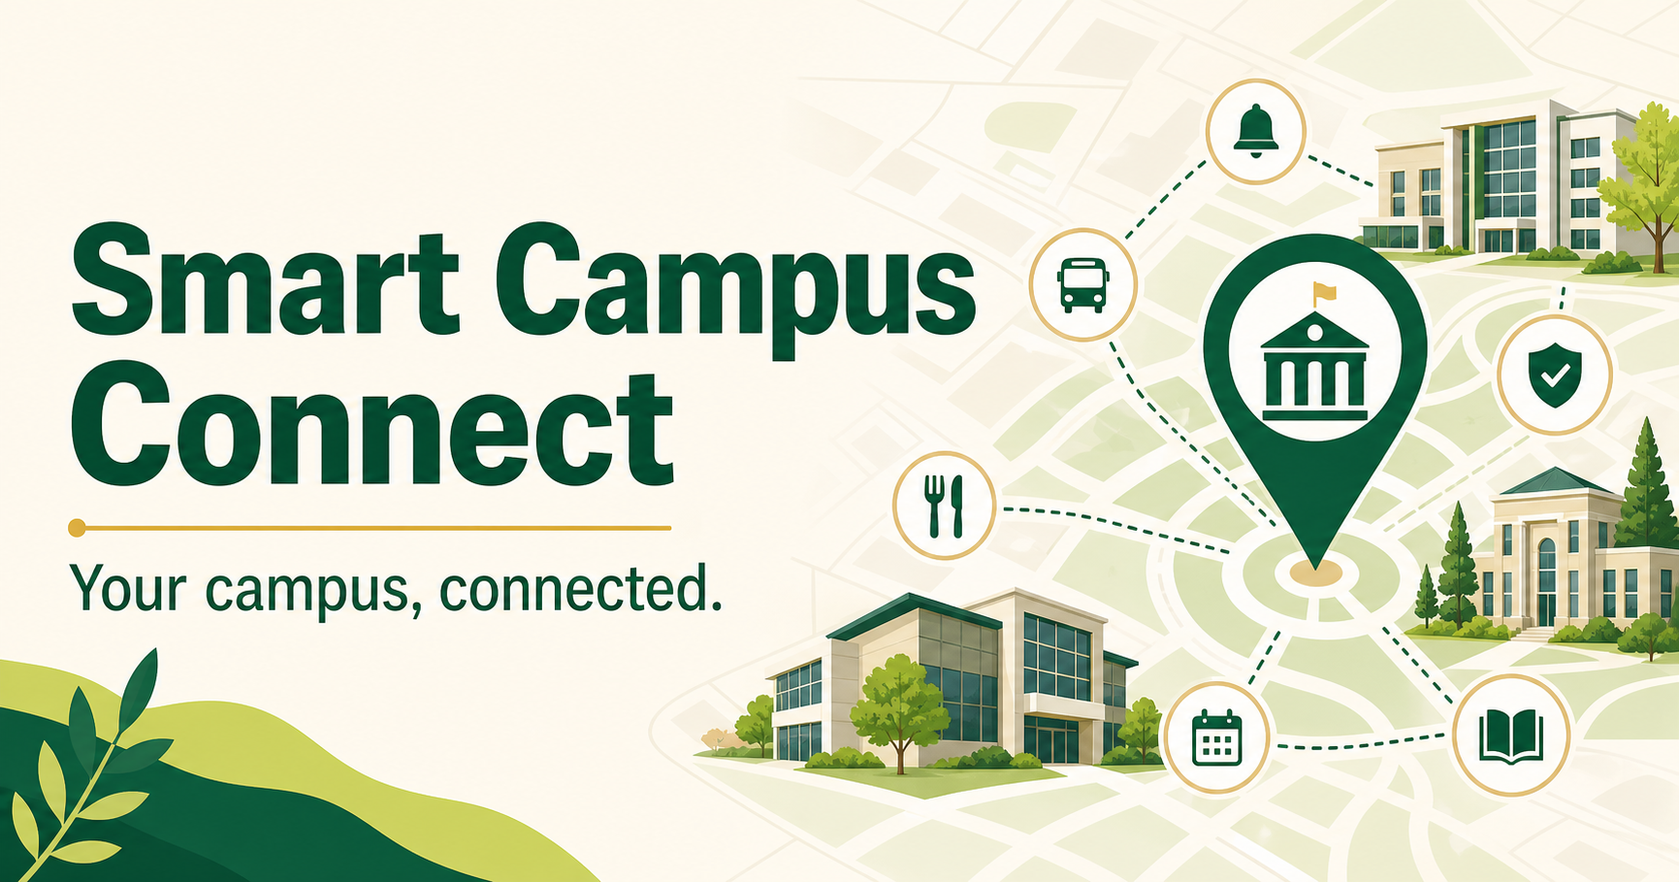
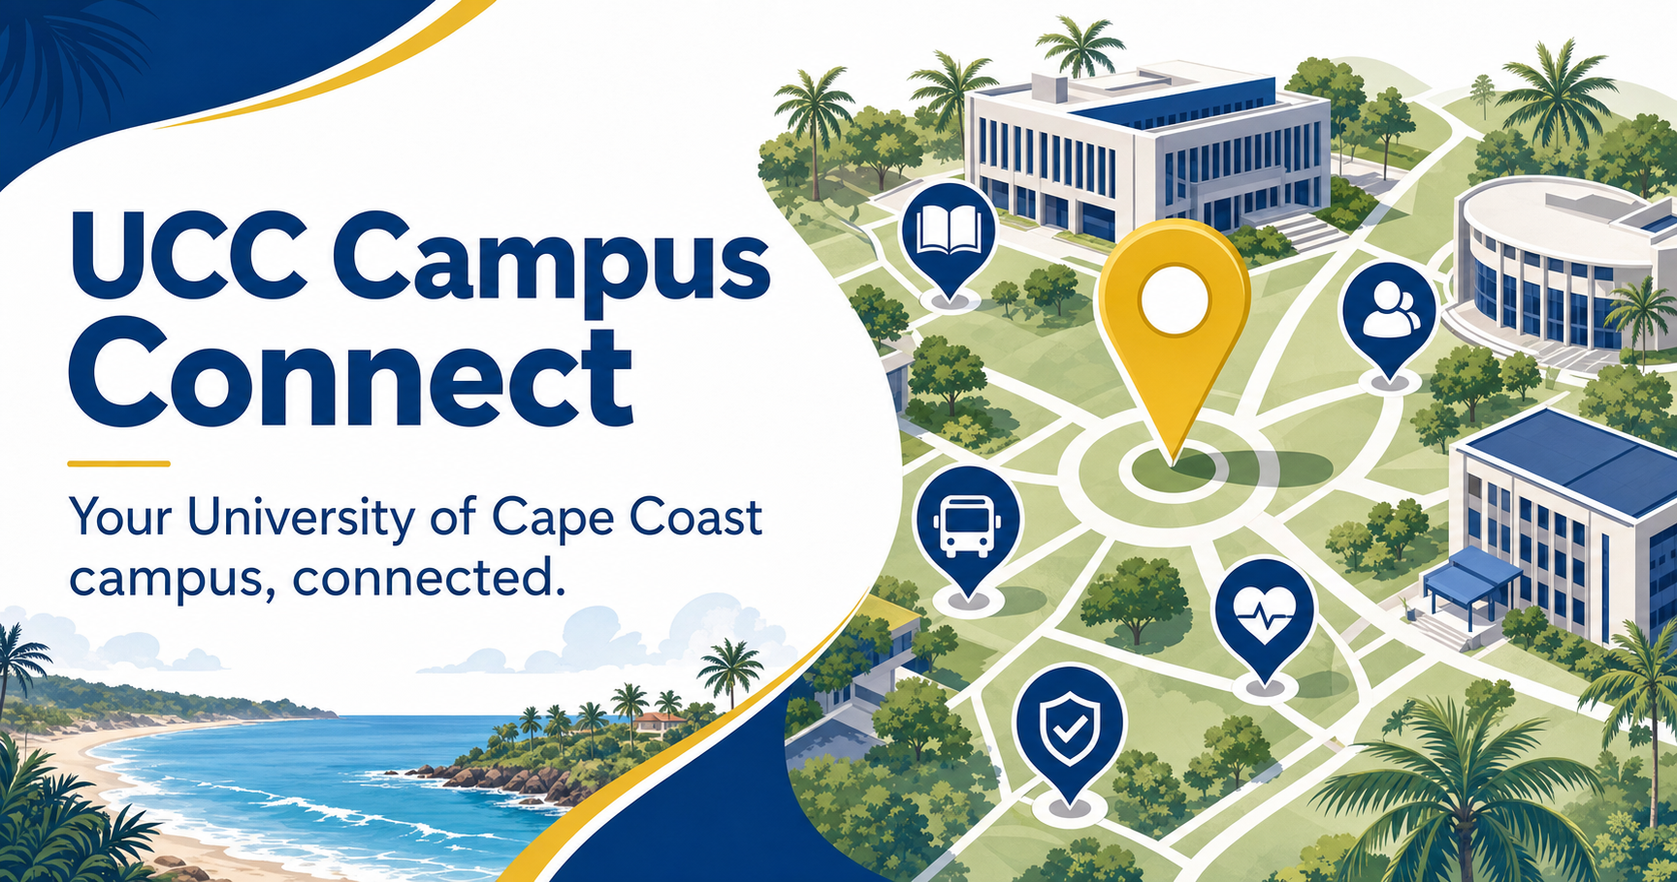
Customize

diff --git a/app/page.tsx b/app/page.tsx
@@ -16,17 +16,19 @@ type Place = {
 };
 
 const places: Place[] = [
-  { id: 1, name: "J. B. Danquah Library", category: "Academic", distance: "4 min", hours: "Open until 10 PM", icon: "▤", color: "#175c45", x: 45, y: 35, accessible: true },
-  { id: 2, name: "University Health Centre", category: "Health", distance: "7 min", hours: "Open 24 hours", icon: "+", color: "#d7533f", x: 71, y: 55, accessible: true },
-  { id: 3, name: "Science Faculty Café", category: "Food & dining", distance: "5 min", hours: "Open until 8 PM", icon: "◒", color: "#e8993a", x: 57, y: 74 },
-  { id: 4, name: "Administration Block", category: "Administration", distance: "9 min", hours: "Open until 5 PM", icon: "▥", color: "#315fa8", x: 29, y: 62, accessible: true },
-  { id: 5, name: "Campus Security Post", category: "Security", distance: "3 min", hours: "Open 24 hours", icon: "◇", color: "#7556a5", x: 76, y: 27 },
-  { id: 6, name: "Central ATM Hub", category: "Banking", distance: "6 min", hours: "Open 24 hours", icon: "$", color: "#15958a", x: 34, y: 78 },
+  { id: 1, name: "Sam Jonah Library", category: "Academic", distance: "4 min", hours: "Open until 10 PM", icon: "▤", color: "#003b73", x: 45, y: 35, accessible: true },
+  { id: 2, name: "UCC University Hospital", category: "Health", distance: "8 min", hours: "Emergency care available", icon: "+", color: "#c43d38", x: 71, y: 55, accessible: true },
+  { id: 3, name: "Casford Cafeteria", category: "Food & dining", distance: "5 min", hours: "Northern Campus", icon: "◒", color: "#d79b13", x: 57, y: 74 },
+  { id: 4, name: "Central Administration", category: "Administration", distance: "9 min", hours: "South Campus", icon: "▥", color: "#315fa8", x: 29, y: 62, accessible: true },
+  { id: 5, name: "UCC Security Control", category: "Security", distance: "3 min", hours: "Open 24 hours", icon: "◇", color: "#62499a", x: 76, y: 27 },
+  { id: 6, name: "ADB Bank & ATM", category: "Banking", distance: "6 min", hours: "Near Cafeteria Complex", icon: "₵", color: "#158b83", x: 34, y: 78 },
+  { id: 7, name: "Kwame Nkrumah Hall", category: "Accommodation", distance: "7 min", hours: "Northern Campus", icon: "▦", color: "#8b6237", x: 20, y: 42 },
+  { id: 8, name: "Science Building Complex", category: "Academic", distance: "6 min", hours: "Network & Infrastructure", icon: "⌬", color: "#2f6ca5", x: 65, y: 15, accessible: true },
 ];
 
 const categories = [
-  ["All places", "⌘"], ["Academic", "▤"], ["Food & dining", "◒"], ["Health", "+"],
-  ["Banking", "$"], ["Security", "◇"],
+  ["All places", "⌘"], ["Academic", "▤"], ["Accommodation", "▦"], ["Food & dining", "◒"],
+  ["Health", "+"], ["Banking", "₵"], ["Security", "◇"],
 ];
 
 const quickActions = [
@@ -45,7 +47,7 @@ export default function Home() {
   const [panel, setPanel] = useState<string | null>(null);
   const [notice, setNotice] = useState("");
   const [chat, setChat] = useState([
-    { from: "ai", text: "Hi Ama! I answer using verified campus information. Where would you like to go?" },
+    { from: "ai", text: "Hi Adwoa! I answer using verified University of Cape Coast information. Where would you like to go?" },
   ]);
   const [message, setMessage] = useState("");
 
@@ -68,9 +70,10 @@ export default function Home() {
     window.setTimeout(() => {
       const lower = q.toLowerCase();
       let answer = "I found a few relevant campus places. Try the directory or tell me the facility name.";
-      if (lower.includes("library")) answer = "J. B. Danquah Library is a 4-minute walk away and is open until 10 PM today.";
-      if (lower.includes("clinic") || lower.includes("health")) answer = "The University Health Centre is open 24 hours. Campus emergency line: 0302 555 011.";
-      if (lower.includes("atm")) answer = "The closest is Central ATM Hub, about a 6-minute walk from your location.";
+      if (lower.includes("library")) answer = "Sam Jonah Library is on Northern Campus, opposite the shuttle bus station. Semester hours are Monday–Friday, 9 AM–10 PM.";
+      if (lower.includes("clinic") || lower.includes("health") || lower.includes("hospital")) answer = "UCC University Hospital serves students, staff and the public. Health Services: 03321 32447.";
+      if (lower.includes("atm") || lower.includes("bank")) answer = "ADB Bank & ATM is near the Cafeteria Complex. UCC also has GCB, Prudential and Zenith banking services on campus.";
+      if (lower.includes("emergency") || lower.includes("security")) answer = "UCC emergency lines include 020 300 5175 and 020 300 5176. Call Ghana’s national emergency number 112 for immediate danger.";
       setChat((current) => [...current, { from: "ai", text: answer }]);
     }, 450);
   }
@@ -87,8 +90,8 @@ export default function Home() {
       {notice && <div className="toast" role="status">✓ {notice}</div>}
       <header className="topbar">
         <a className="brand" href="#top" onClick={() => setActive("Home")}>
-          <span className="brand-mark"><i /><i /><i /></span>
-          <span>Smart Campus<small>CONNECT</small></span>
+          <span className="brand-mark">UCC</span>
+          <span>UCC Campus<small>CONNECT</small></span>
         </a>
         <nav aria-label="Main navigation">
           {["Home", "Map", "Directory", "Updates"].map((item) => (
@@ -100,7 +103,7 @@ export default function Home() {
         </nav>
         <div className="header-actions">
           <button className="icon-button" aria-label="Notifications" onClick={() => toast("You’re all caught up")}>♢<b>3</b></button>
-          <button className="profile" onClick={() => setPanel("profile")}><span>AO</span><em>Ama Osei<small>Student</small></em><i>⌄</i></button>
+          <button className="profile" onClick={() => setPanel("profile")}><span>AM</span><em>Adwoa Mensah<small>UCC Student</small></em><i>⌄</i></button>
         </div>
       </header>
 
@@ -108,21 +111,21 @@ export default function Home() {
         <section className="hero">
           <div className="hero-copy">
             <span className="eyebrow"><i /> WEDNESDAY, JULY 29</span>
-            <h1>Good morning, Ama.</h1>
-            <p>Where do you need to be today?</p>
+            <h1>Good morning, Adwoa.</h1>
+            <p>Where on UCC campus do you need to be?</p>
             <div className="global-search">
               <span>⌕</span>
-              <input value={query} onChange={(e) => setQuery(e.target.value)} onFocus={() => document.getElementById("explore")?.scrollIntoView({ behavior: "smooth" })} placeholder="Search buildings, services, or departments…" aria-label="Search campus" />
+              <input value={query} onChange={(e) => setQuery(e.target.value)} onFocus={() => document.getElementById("explore")?.scrollIntoView({ behavior: "smooth" })} placeholder="Search UCC halls, faculties, services…" aria-label="Search UCC campus" />
               <kbd>⌘ K</kbd>
               <button onClick={() => document.getElementById("explore")?.scrollIntoView({ behavior: "smooth" })}>Search</button>
             </div>
-            <div className="popular"><span>Popular:</span> <button onClick={() => setQuery("Library")}>Library</button><button onClick={() => setQuery("ATM")}>ATM</button><button onClick={() => setQuery("Health")}>Health Centre</button></div>
+            <div className="popular"><span>Popular:</span> <button onClick={() => setQuery("Sam Jonah")}>Sam Jonah Library</button><button onClick={() => setQuery("Hall")}>Halls</button><button onClick={() => setQuery("Hospital")}>UCC Hospital</button></div>
           </div>
           <div className="today-card">
             <div className="today-head"><span>Today on campus</span><button onClick={() => document.getElementById("updates")?.scrollIntoView({ behavior: "smooth" })}>View calendar →</button></div>
-            <div className="event-row"><time><b>10:00</b><small>AM</small></time><i className="blue" /><div><strong>Orientation: New Students</strong><span>Great Hall · 1 hr</span></div></div>
-            <div className="event-row"><time><b>2:30</b><small>PM</small></time><i className="gold" /><div><strong>Entrepreneurship Talk</strong><span>Business School · 90 min</span></div></div>
-            <div className="weather"><span>☀</span><div><b>28°</b><small>Mostly sunny</small></div><em>Good day for a walk</em></div>
+            <div className="event-row"><time><b>10:00</b><small>AM</small></time><i className="blue" /><div><strong>Research Methods Seminar</strong><span>Sam Jonah Library · 1 hr</span></div></div>
+            <div className="event-row"><time><b>2:30</b><small>PM</small></time><i className="gold" /><div><strong>SRC Student Forum</strong><span>UCC Auditorium · 90 min</span></div></div>
+            <div className="weather"><span>☀</span><div><b>28°</b><small>Cape Coast</small></div><em>Sea breeze this afternoon</em></div>
           </div>
         </section>
 
@@ -139,7 +142,7 @@ export default function Home() {
 
         <section className="explore" id="explore">
           <div className="explore-head">
-            <div><span>EXPLORE CAMPUS</span><h2>Find your way around</h2></div>
+            <div><span>EXPLORE UCC</span><h2>Find your way around campus</h2></div>
             <button className="location-button" onClick={() => navigator.geolocation ? navigator.geolocation.getCurrentPosition(() => toast("Location updated"), () => toast("Location access was not available")) : toast("Geolocation is not supported")}>◎ Use my location</button>
           </div>
           <div className="category-row">
@@ -148,7 +151,7 @@ export default function Home() {
           <div className="map-directory">
             <div className="map">
               <div className="road r1" /><div className="road r2" /><div className="road r3" />
-              <span className="map-label l1">NORTH ROAD</span><span className="map-label l2">UNIVERSITY AVE</span><span className="map-label l3">SCIENCE WALK</span>
+              <span className="map-label l1">NORTHERN CAMPUS</span><span className="map-label l2">SCIENCE ROAD</span><span className="map-label l3">SHUTTLE ROUTE</span>
               <div className="field f1" /><div className="field f2" />
               {filtered.map((place) => <button aria-label={place.name} key={place.id} className={`marker ${selected?.id === place.id ? "current" : ""}`} style={{ left: `${place.x}%`, top: `${place.y}%`, background: place.color }} onClick={() => setSelected(place)}>{place.icon}</button>)}
               <div className="you-are-here"><i /> You are here</div>
@@ -173,21 +176,21 @@ export default function Home() {
         <section className="updates-section" id="updates">
           <div className="updates-main">
             <div className="section-title compact"><div><span>STAY INFORMED</span><h2>Latest updates</h2></div><button onClick={() => toast("Showing all announcements")}>View all →</button></div>
-            <article className="featured-update"><div className="date-tile"><b>31</b><span>JUL</span></div><div><span className="tag red">IMPORTANT</span><h3>Course registration closes Friday</h3><p>Complete your semester registration and confirm all selected courses before the portal closes.</p><small>Academic Affairs · 2 hours ago</small></div></article>
+            <article className="featured-update"><div className="date-tile"><b>27</b><span>JUL</span></div><div><span className="tag red">UCC NEWS</span><h3>UCC Counselling Centre produces 25 lay counsellors</h3><p>Twenty-five para-counsellors have graduated from the Young and Wise programme organised by the Counselling Centre.</p><small>University News · July 27, 2026</small></div></article>
             <div className="mini-updates">
-              <article><span className="tag purple">EVENT</span><b>Campus Career Fair 2026</b><small>August 4 · Great Hall</small></article>
-              <article><span className="tag orange">MAINTENANCE</span><b>Library Wi-Fi upgrade</b><small>Tonight · 11 PM–2 AM</small></article>
+              <article><span className="tag purple">SRC</span><b>UCC SRC unveils 2026–2031 strategic plan</b><small>July 23 · University News</small></article>
+              <article><span className="tag orange">CAMPUS</span><b>New student executives inducted</b><small>2026/2027 academic year</small></article>
             </div>
           </div>
           <aside className="safety-card">
             <i>◇</i><div><span>AVAILABLE 24/7</span><h3>Campus safety</h3><p>Security support is always a tap away.</p></div>
-            <a href="tel:0302555011">☎ Call security</a>
+            <a href="tel:0203005175">☎ Call UCC emergency</a>
             <button onClick={() => setPanel("emergency")}>More emergency contacts →</button>
           </aside>
         </section>
       </main>
 
-      <footer><div className="brand light"><span className="brand-mark"><i /><i /><i /></span><span>Smart Campus<small>CONNECT</small></span></div><p>Making campus life simpler, safer, and more connected.</p><span>© 2026 Smart Campus Connect</span></footer>
+      <footer><div className="brand light"><span className="brand-mark">UCC</span><span>UCC Campus<small>CONNECT</small></span></div><p>For the University of Cape Coast community, Ghana.</p><span>© 2026 University of Cape Coast</span></footer>
 
       <button className="floating-ai" onClick={() => setPanel("assistant")} aria-label="Open campus assistant"><span>✦</span><b>Ask Campus AI</b></button>
 
@@ -195,13 +198,13 @@ export default function Home() {
         <section className={`modal ${panel === "assistant" ? "chat-modal" : ""}`} onMouseDown={(e) => e.stopPropagation()} role="dialog" aria-modal="true">
           <button className="modal-close" onClick={() => setPanel(null)}>×</button>
           {panel === "assistant" && <>
-            <div className="modal-icon ai">✦</div><h2>Campus AI</h2><p className="modal-subtitle">Answers grounded in verified campus information</p>
+            <div className="modal-icon ai">✦</div><h2>UCC Campus AI</h2><p className="modal-subtitle">Answers grounded in verified UCC information</p>
             <div className="chat-log">{chat.map((item, index) => <div key={index} className={`bubble ${item.from}`}>{item.text}</div>)}</div>
             <div className="chat-input"><input value={message} onChange={(e) => setMessage(e.target.value)} onKeyDown={(e) => e.key === "Enter" && sendMessage()} placeholder="Ask about places, hours, or services…" autoFocus /><button onClick={sendMessage}>↑</button></div>
           </>}
           {panel === "emergency" && <>
             <div className="modal-icon emergency">+</div><h2>Emergency help</h2><p className="modal-subtitle">If there is immediate danger, call the appropriate service.</p>
-            <div className="contact-list"><a href="tel:0302555011"><span>◇</span><b>Campus security<small>0302 555 011 · 24 hours</small></b><em>Call</em></a><a href="tel:0302555012"><span>+</span><b>University Health Centre<small>0302 555 012 · 24 hours</small></b><em>Call</em></a><a href="tel:112"><span>☎</span><b>National emergency<small>Police, fire and ambulance</small></b><em>112</em></a></div>
+            <div className="contact-list"><a href="tel:0203005175"><span>◇</span><b>UCC emergency line<small>020 300 5175 · Campus response</small></b><em>Call</em></a><a href="tel:0332132447"><span>+</span><b>UCC Health Services<small>03321 32447 · University Hospital</small></b><em>Call</em></a><a href="tel:0205388648"><span>☎</span><b>UCC Fire Service Unit<small>020 538 8648</small></b><em>Call</em></a><a href="tel:112"><span>☎</span><b>National emergency<small>Police, fire and ambulance</small></b><em>112</em></a></div>
             <button className="primary-action" onClick={() => toast("Your location is ready to share")}>◎ Capture my current location</button>
           </>}
           {panel === "report" && <>
@@ -214,7 +217,7 @@ export default function Home() {
             </form>
           </>}
           {panel === "profile" && <>
-            <div className="profile-large">AO</div><h2>Ama Osei</h2><p className="modal-subtitle">Student · Computer Science</p>
+            <div className="profile-large">AM</div><h2>Adwoa Mensah</h2><p className="modal-subtitle">UCC Student · Computer Science & IT</p>
             <div className="stats"><div><b>{saved.length}</b><span>Saved places</span></div><div><b>2</b><span>Open reports</span></div><div><b>8</b><span>Places visited</span></div></div>
             <button className="primary-action" onClick={() => { setPanel(null); toast("Profile settings opened"); }}>Manage my profile</button>
           </>}

diff --git a/app/globals.css b/app/globals.css
@@ -1,6 +1,6 @@
 @import "tailwindcss";
 
-:root { --ink:#18362f; --green:#175c45; --lime:#dce87d; --cream:#f7f5ed; --muted:#698078; --line:#dce4df; }
+:root { --ink:#102f4d; --green:#003b73; --lime:#f2c84b; --cream:#f6f8fb; --muted:#647b8d; --line:#dce5ec; }
 *{box-sizing:border-box} html{scroll-behavior:smooth} body{margin:0;background:#fbfcf9;color:var(--ink);font-family:var(--font-geist-sans),Arial,sans-serif} button,input,select,textarea{font:inherit} button,a{transition:.2s ease} button{color:inherit}
 .app-shell{min-height:100vh;overflow:hidden}.topbar{height:76px;background:#fff;border-bottom:1px solid #e5e9e6;display:flex;align-items:center;padding:0 max(5vw,28px);position:sticky;top:0;z-index:30}.brand{display:flex;align-items:center;gap:11px;text-decoration:none;color:var(--ink);font-size:16px;font-weight:760;letter-spacing:-.4px}.brand>span:last-child{display:flex;flex-direction:column;line-height:1.02}.brand small{font-size:8px;letter-spacing:3.2px;color:#638077;margin-top:4px}.brand-mark{width:35px;height:35px;border-radius:9px;background:var(--green);display:flex!important;align-items:flex-end!important;justify-content:center;gap:3px;padding:8px}.brand-mark i{width:4px;border-radius:4px;background:#f3f5cf}.brand-mark i:nth-child(1){height:10px}.brand-mark i:nth-child(2){height:19px}.brand-mark i:nth-child(3){height:14px}.topbar nav{display:flex;gap:34px;margin:auto}.topbar nav button{border:0;background:none;height:76px;cursor:pointer;color:#61756f;font-size:13px;position:relative}.topbar nav button.active{color:var(--green);font-weight:700}.topbar nav button.active:after{content:"";position:absolute;left:0;right:0;bottom:0;height:2px;background:var(--green)}.header-actions{display:flex;align-items:center;gap:18px}.icon-button{border:0;background:#f4f6f3;border-radius:50%;width:38px;height:38px;cursor:pointer;position:relative}.icon-button b{position:absolute;right:-1px;top:-3px;background:#d9513c;color:#fff;border-radius:50%;font-size:8px;width:15px;height:15px;display:grid;place-items:center}.profile{border:0;background:none;display:flex;align-items:center;gap:9px;cursor:pointer}.profile>span,.profile-large{width:36px;height:36px;background:#e6bf73;color:#453a20;border-radius:50%;display:grid;place-items:center;font-weight:750;font-size:12px}.profile em{font-style:normal;font-size:12px;font-weight:700;text-align:left;display:flex;flex-direction:column}.profile small{font-weight:400;color:#80908b;margin-top:2px}.profile i{font-style:normal;color:#82908c}
 main{max-width:1440px;margin:auto}.hero{min-height:392px;background:var(--cream);padding:66px max(6vw,34px) 56px;display:grid;grid-template-columns:1.35fr .8fr;gap:7vw;align-items:center;position:relative}.hero:before{content:"";position:absolute;width:260px;height:260px;border:1px solid #e8e5d7;border-radius:50%;left:-120px;top:-90px}.eyebrow,.section-title span,.explore-head>div>span{font-size:9px;font-weight:800;letter-spacing:2.2px;color:#698076}.eyebrow i{width:6px;height:6px;border-radius:50%;background:#dd9145;display:inline-block;margin-right:8px}.hero h1{font-family:Georgia,serif;font-weight:500;font-size:49px;letter-spacing:-2px;margin:14px 0 4px}.hero-copy>p{font-family:Georgia,serif;font-size:20px;color:#667972;margin:0 0 27px}.global-search{display:flex;align-items:center;background:#fff;border:1px solid #d9e1dc;border-radius:9px;padding:6px 7px 6px 16px;box-shadow:0 10px 28px #1b473211;max-width:685px}.global-search>span{font-size:23px;color:#6d827a;transform:rotate(-20deg)}.global-search input{height:46px;border:0;outline:0;flex:1;padding:0 12px;font-size:13px;color:#25443c}.global-search kbd{font-size:10px;border:1px solid #d9dfdc;border-radius:4px;padding:4px 6px;color:#8b9995}.global-search button{background:var(--green);border:0;color:#fff;border-radius:6px;height:42px;padding:0 22px;margin-left:9px;font-weight:700;font-size:12px;cursor:pointer}.popular{font-size:11px;color:#82918d;margin-top:13px}.popular span{font-weight:700;color:#5a716a}.popular button{border:0;background:none;color:#72857f;font-size:11px;text-decoration:underline;cursor:pointer;padding:0 5px}.today-card{background:#fff;border-radius:12px;padding:22px 24px;box-shadow:0 15px 38px #2447330d;border:1px solid #eceeea}.today-head{display:flex;justify-content:space-between;align-items:center;margin-bottom:9px}.today-head span{font-weight:750;font-size:13px}.today-head button{border:0;background:none;color:var(--green);font-size:10px;font-weight:700;cursor:pointer}.event-row{display:flex;align-items:center;gap:14px;padding:14px 0;border-bottom:1px solid #edf0ed}.event-row time{width:42px;display:flex;flex-direction:column}.event-row time b{font-size:13px}.event-row time small{font-size:8px;color:#82908c}.event-row>i{width:3px;height:35px;border-radius:3px}.event-row>i.blue{background:#5277ae}.event-row>i.gold{background:#e2a043}.event-row div{display:flex;flex-direction:column}.event-row strong{font-size:11px}.event-row span{font-size:9px;color:#80908b;margin-top:4px}.weather{display:flex;align-items:center;gap:10px;background:#faf8ee;border-radius:8px;padding:12px;margin-top:14px}.weather>span{font-size:24px}.weather div{display:flex;flex-direction:column}.weather b{font-size:16px}.weather small{font-size:8px;color:#778983}.weather em{font-style:normal;font-size:9px;color:#7a8c85;margin-left:auto}
@@ -11,3 +11,12 @@ main{max-width:1440px;margin:auto}.hero{min-height:392px;background:var(--cream)
 @media(max-width:900px){.topbar nav{display:none}.header-actions{margin-left:auto}.hero{grid-template-columns:1fr;padding-top:45px}.today-card{max-width:620px}.quick-grid{grid-template-columns:1fr 1fr}.map-directory{grid-template-columns:1.3fr 1fr}.updates-section{grid-template-columns:1fr}.safety-card{min-height:230px}.hero h1{font-size:42px}}
 @media(max-width:620px){.topbar{padding:0 18px}.profile em,.profile i{display:none}.hero,.quick-section,.explore,.updates-section{padding-left:20px;padding-right:20px}.hero{padding-top:38px}.hero h1{font-size:36px}.global-search kbd,.global-search button{display:none}.quick-grid{grid-template-columns:1fr}.section-title p{display:none}.map-directory{height:auto;grid-template-columns:1fr}.map{height:390px}.place-list{height:410px}.updates-section{padding-top:44px}.mini-updates{grid-template-columns:1fr}footer{flex-direction:column;text-align:center;gap:12px}.floating-ai b{display:none}.floating-ai{padding:8px}.today-card{padding:18px}.form-row{grid-template-columns:1fr}}
 @media(prefers-reduced-motion:reduce){*{scroll-behavior:auto!important;transition:none!important}}
+
+/* University of Cape Coast identity */
+.brand-mark{width:38px;height:38px;border-radius:50%;background:var(--green);border:3px solid var(--lime);display:grid!important;place-items:center!important;color:#fff;font-family:Georgia,serif;font-size:10px;font-weight:800;letter-spacing:.3px;padding:0;flex:none}
+.brand-mark i{display:none}
+.explore{background:#edf3f8}
+.quick-card.map>i{background:#e3edf7;color:#216196}
+.safety-card a,.floating-ai{background:var(--lime)}
+footer{background:#082f57}
+footer .brand-mark{background:#0b477d;border-color:#f2c84b;color:#fff}

diff --git a/app/layout.tsx b/app/layout.tsx
@@ -7,18 +7,18 @@ const geistMono = Geist_Mono({ variable: "--font-geist-mono", subsets: ["latin"]
 
 export const metadata: Metadata = {
   metadataBase: new URL(process.env.SITE_URL || "https://smart-campus-connect.sites.openai.com"),
-  title: "Smart Campus Connect",
-  description: "Your campus, connected — navigation, services, updates, and safety in one place.",
+  title: "UCC Campus Connect | University of Cape Coast",
+  description: "Navigate the University of Cape Coast — facilities, halls, updates, services, and safety in one place.",
   icons: { icon: "/favicon.svg", shortcut: "/favicon.svg" },
   openGraph: {
-    title: "Smart Campus Connect",
-    description: "Your campus, connected.",
-    images: [{ url: "/og.png", width: 1200, height: 630, alt: "Smart Campus Connect" }],
+    title: "UCC Campus Connect",
+    description: "Your University of Cape Coast campus, connected.",
+    images: [{ url: "/og.png", width: 1200, height: 630, alt: "UCC Campus Connect" }],
   },
   twitter: {
     card: "summary_large_image",
-    title: "Smart Campus Connect",
-    description: "Your campus, connected.",
+    title: "UCC Campus Connect",
+    description: "Your University of Cape Coast campus, connected.",
     images: ["/og.png"],
   },
 };
